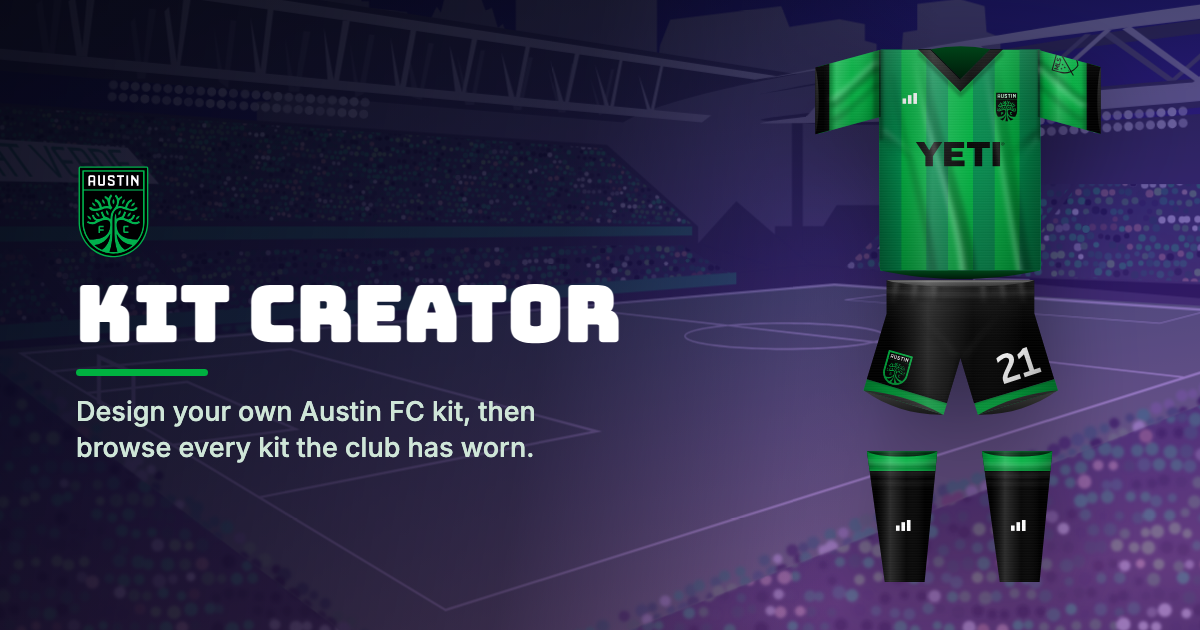
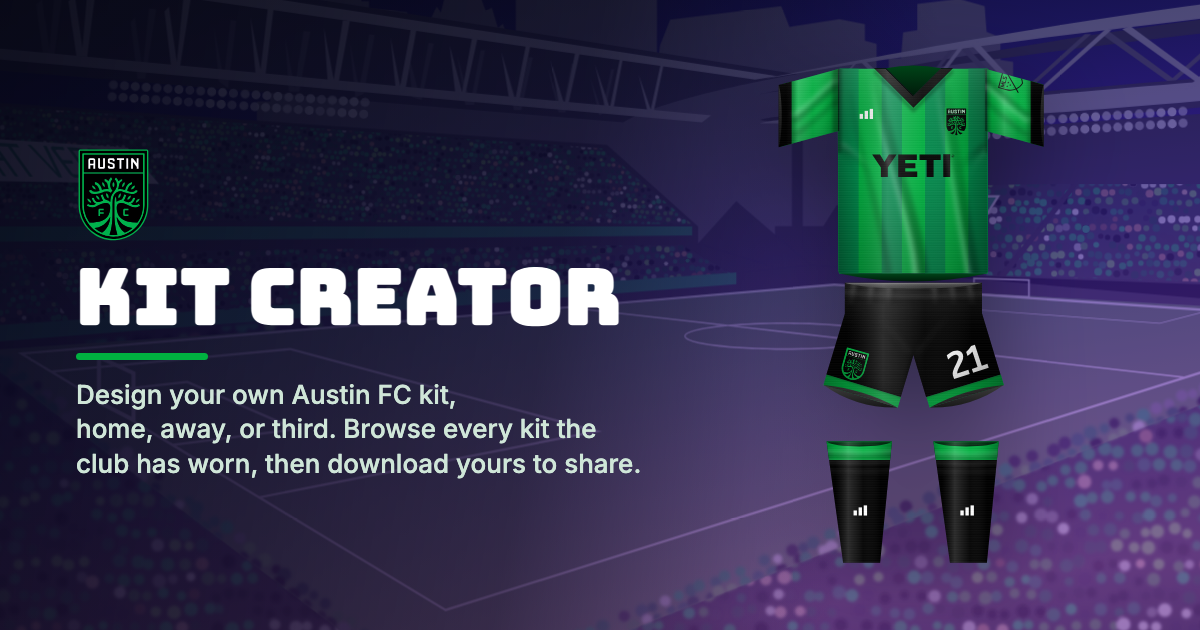
Reword the social card, and pull the kit off the edge
"Design your own Austin FC kit, home, away, or third. Browse every kit
the club has worn, then download yours to share." Three things the app
does rather than one, and og:description and twitter:description now
say the same sentence the picture does.

"home, away, or third" is held on one line. Left alone the measure
broke after "home," and stranded "away, or third" on the next line,
which reads as a list that has come apart. text-wrap: balance evens the
rag but will still break mid-phrase to do it, so the phrase says so
itself.

The kit moves in 58 from the right edge and loses 40 of height. Several
places that show these cards crop them square, which on a 1200x630
keeps only x 285 to 915 -- a layout with the type beside the kit cannot
survive that whole, but the further in the kit sits the more of it
lives through the crop.

Changed region(s): [[0.0617, 0.2111, 0.5242, 0.754], [0.6475, 0.0603, 0.925, 0.6635], [0.6783, 0.6937, 0.8942, 0.9349]]

diff --git a/tools/og-image.html b/tools/og-image.html
@@ -86,7 +86,7 @@
         display: flex;
         flex-direction: column;
         gap: 18px;
-        max-width: 620px;
+        max-width: 700px;
       }
 
       .card-crest {
@@ -105,12 +105,27 @@
 
       .card-sub {
         margin: 0;
-        max-width: 540px;
+        /* Wide enough that "home, away, or third" survives as one phrase.
+           At 540 the line broke after "home," and split the list in half.
+           text-wrap: balance does the rest without needing a wider measure,
+           which the kit now wants back. */
+        max-width: 616px;
         color: #CFE6D8;
         font-family: 'Inter', system-ui, sans-serif;
-        font-size: 27px;
+        font-size: 26px;
         font-weight: 500;
-        line-height: 1.32;
+        line-height: 1.34;
+        /* Evens the ragged edge rather than filling each line to the measure
+           and leaving a short last one. */
+        text-wrap: balance;
+      }
+
+      /* Three words that are one idea. Left to itself the line broke after
+         "home," and left "away, or third" stranded on the next one, which
+         reads as a list that has come apart. balance evens the rag; it will
+         still break mid-phrase to do it. */
+      .hold {
+        white-space: nowrap;
       }
 
       .card-rule {
@@ -120,13 +135,18 @@
         background-color: #00B140;
       }
 
-      /* The same lift the kit gets on the stage. */
+      /* The same lift the kit gets on the stage.
+         Pulled in from the right edge, and a little smaller than it was.
+         Several places that show these cards crop them square, which on a
+         1200x630 keeps only x 285 to 915 -- a side-by-side layout can never
+         survive that whole, but the further in the kit sits the more of it
+         lives through the crop. */
       .card-kit {
         position: relative;
         display: block;
-        height: 560px;
+        height: 520px;
         width: auto;
-        margin-right: 18px;
+        margin-right: 76px;
         filter: drop-shadow(0 24px 48px rgba(0, 0, 0, .45));
       }
     </style>
@@ -168,7 +188,7 @@
               <AustinFCBadge class="card-crest" />
               <h1 class="card-title">Kit Creator</h1>
               <div class="card-rule"></div>
-              <p class="card-sub">Design your own Austin FC kit, then browse every kit the club has worn.</p>
+              <p class="card-sub">Design your own Austin FC kit, <span class="hold">home, away, or third.</span> Browse every kit the club has worn, then download yours to share.</p>
             </div>
 
             <Kit class="card-kit" v-bind="kit" :frozen="true" />

diff --git a/index.html b/index.html
@@ -27,7 +27,7 @@
     <meta property="og:type" content="website" />
     <meta property="og:url" content="https://austin-fc-kit-creator.netlify.app/" />
     <meta property="og:title" content="Austin FC Kit Creator" />
-    <meta property="og:description" name="description" content="Design your own Austin FC kit, then browse every kit the club has worn.">
+    <meta property="og:description" name="description" content="Design your own Austin FC kit, home, away, or third. Browse every kit the club has worn, then download yours to share.">
     <!-- Absolute, because a scraper has no page to resolve a relative path
          against. Regenerate with `npm run og`; tools/og-image.html says how. -->
     <meta property="og:image" content="https://austin-fc-kit-creator.netlify.app/og-image.png" />
@@ -36,7 +36,7 @@
     <meta property="og:image:alt" content="The Heartbeat Kit on the pitch at night, beside the words Kit Creator." />
     <meta name="twitter:card" content="summary_large_image" />
     <meta name="twitter:title" content="Austin FC Kit Creator" />
-    <meta name="twitter:description" content="Design your own Austin FC kit, then browse every kit the club has worn.">
+    <meta name="twitter:description" content="Design your own Austin FC kit, home, away, or third. Browse every kit the club has worn, then download yours to share.">
     <meta name="twitter:image" content="https://austin-fc-kit-creator.netlify.app/og-image.png" />
     <title>Austin FC Kit Creator</title>
   </head>
